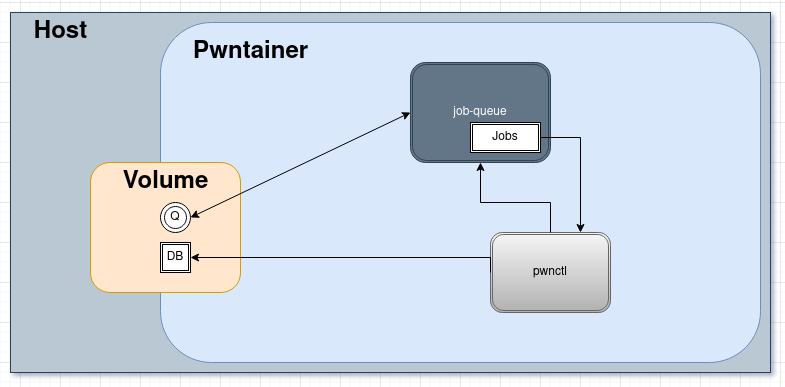
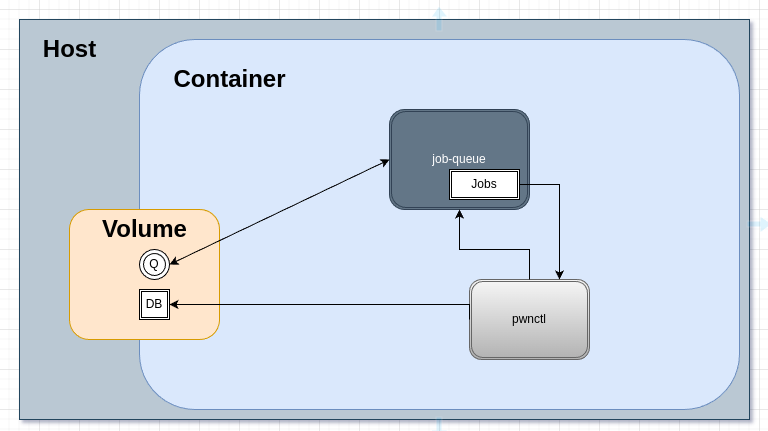
README changes

diff --git a/README.md b/README.md
@@ -3,7 +3,7 @@
 
 ![ci: tag](https://github.com/aristosMiliaressis/pwnctl/actions/workflows/ci.yml/badge.svg)
 
- a recursive rule based asset discovery, scanning and reporting framework 
+recursive configuration based engine for external recon.
 
 ### Implementation Phase #0
 
@@ -15,6 +15,8 @@
 
 - decentralized AWS architecture with autoscaling worker instances and centralized data collection
 - hopefully will be as easy as swapping out a `BashJobQueueService` class for a `SQSJobQueueService` a sqlite conn str for postgre and a bit of orchestration shenanigans :)
+
+![arch-phase0](img/arch-phase1.png)
 
 # `pwnctl --process`
 
@@ -122,43 +124,59 @@ tags are a way to store arbitary metadata relating to an asset, they can be used
 
 **`notification-rules.yml`**
 ```YAML
+
+Providers:
+  - Name: DiscordNotificationProvider
+    Channels:
+      - Name: misconfigs
+
+Rules:
+  - ShortName: default_creds
+    Subject: Service
+    Filter: Service["vuln-default-creds"] == "true"
+    Topic: misconfigs
+  - ShortName: cors_misconfig
+    Subject: Endpoint
+    Filter: Endpoint["cors-misconfig"] == "true"
+    Topic: misconfigs
+  - ShortName: shortname_misconfig
+    Subject: Endpoint
+    Filter: Endpoint["shortname-misconfig"] == "true"
+    Topic: misconfigs
 ```
 
 ## `pwnctl --query`
 
 - [x] read sql queries from stdin, execute them and print output
-- [x] json output format
+- [x] jsonl output format
 
 ## `pwnctl list --mode <domains/hosts/endpoints/etc>`
 
-...
+lists assets of a the specified class in JSONL(ine) format
 
 ## `pwnctl export --path out/`
 
-...
+exports all found assets in JSONL(ine) format at the specified directory
 
 ## `pwnctl summary`
 
-...
+prints a summary about queued tasks and found assets
 
 ## `pwnctl -i/--import <importer> -s/--source <source>`
 
 **To Do**
 - burp suite importer
 
+## Setup
+
+CLI Install
+> curl https://raw.githubusercontent.com/aristosMiliaressis/pwnctl/master/src/pwnctl.cli/install.sh | sudo bash
+
 ## Workers & Scaling
 
 **To Do**
-- PostgreSQL db
-- AWS SQS queue 
-- job runner that will run command and pipe output to `pwnctl` than record task metadata (i.e return code, start/finish timestamp) to db
-- EKS with Fargate for serverless autoscaling worker deployment
-- slimer worker images for faster worker creation&teardown
-
-## Miscellaneous Stuff
-
-**To Do**
-- non deterministic methods of inscope detection for cloud assets, CIDRs, etc (favicon, legal text, keyword, CT time correlation)
-- ip/hostname/url normalization
-- IP blocking detection & recycling of cloud ips
-- WebUI, graphs and stuff
+- [x] PostgreSQL db
+- [ ] AWS SQS queue 
+- [ ] sqs consumer daemon service
+- [ ] ECS with Fargate autoscalling
+- [ ] EFS for configuration & script delivery
